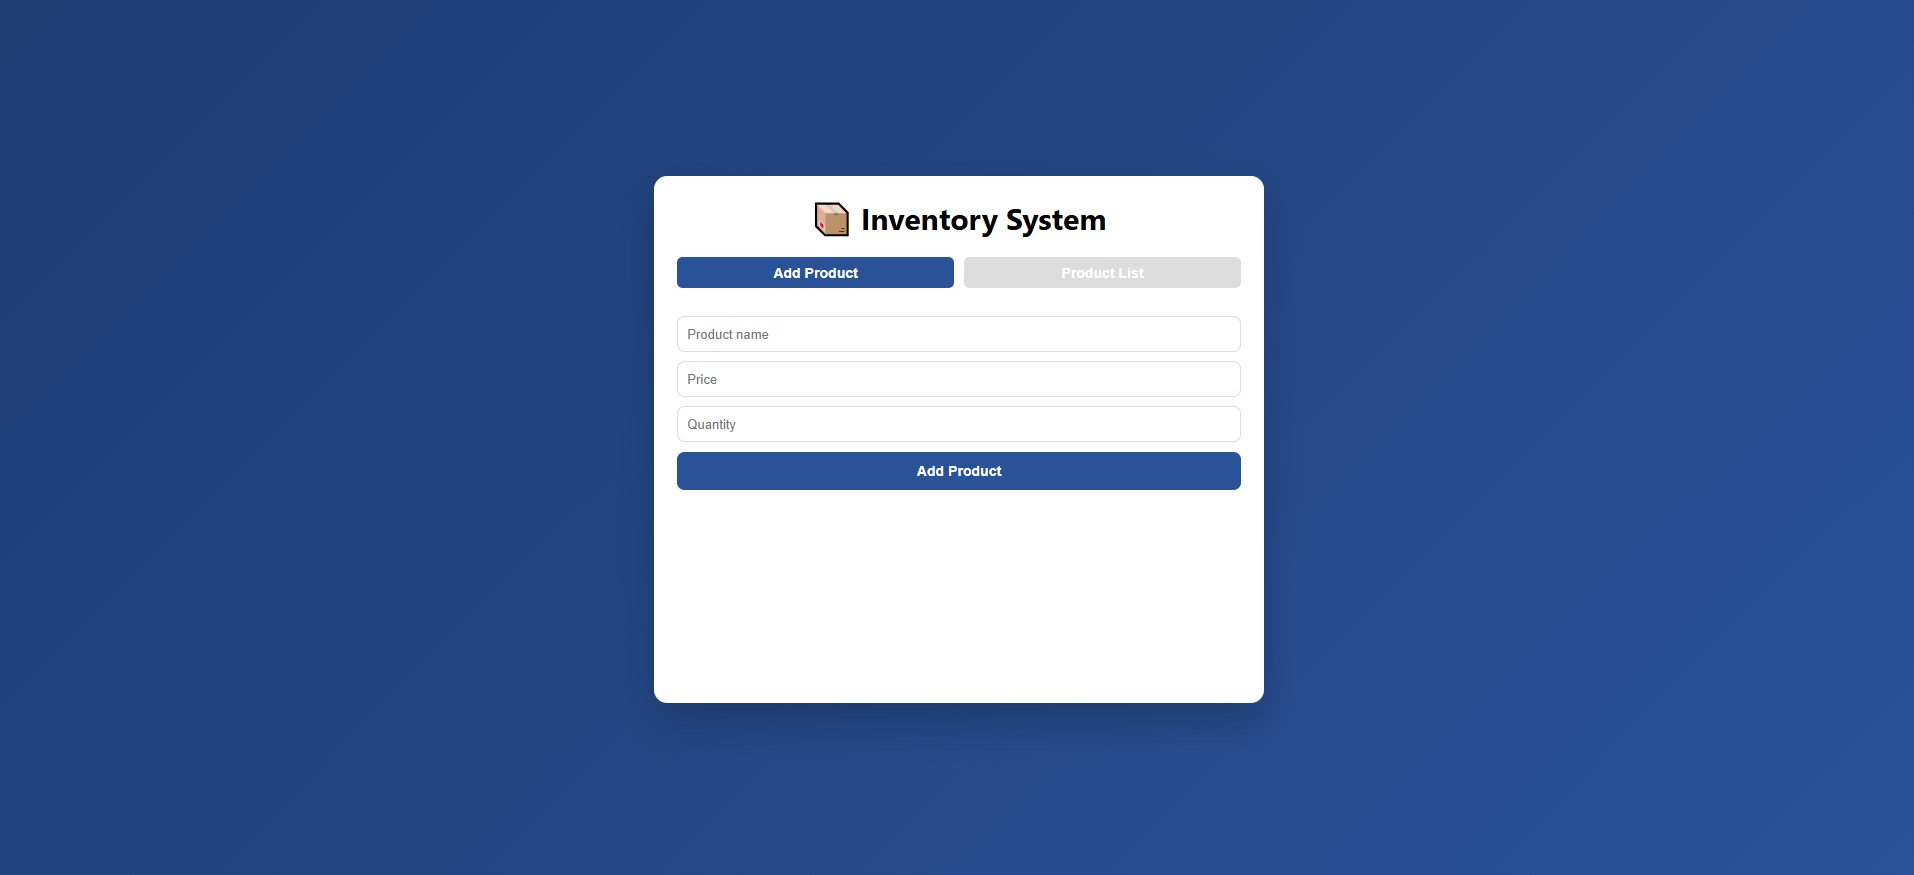
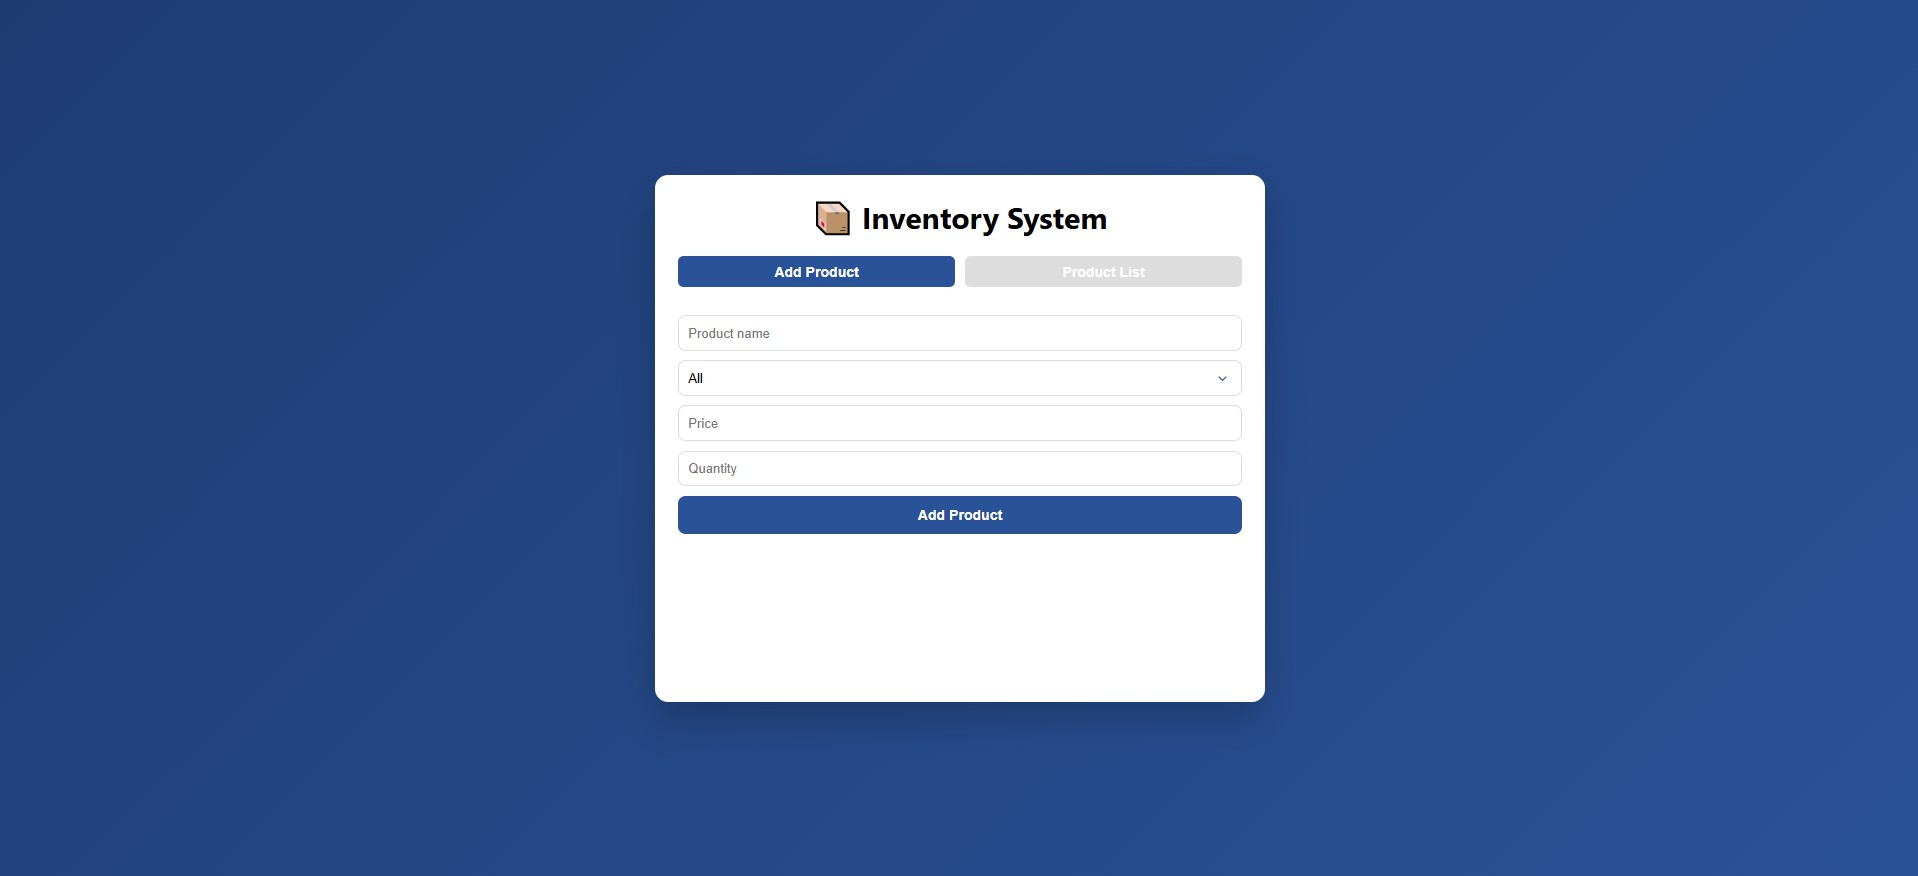
readme

diff --git a/README.md b/README.md
@@ -9,10 +9,14 @@ The app allows users to **add products**, **view them in a sortable & scrollable
 ## 🚀 Features
 
 ### ✅ Product Management
-- Add products with **name, price, and quantity**
-- Prevent invalid input (frontend & backend validation)
+- Add products with:
+  - **Name**
+  - **Category** (Food, Drink, Other)
+  - **Price**
+  - **Quantity**
+- Frontend & backend validation
+- Prevent duplicate products (same name + category)
 - Delete products
-- Prevent duplicate product names
 
 ---
 
@@ -20,8 +24,12 @@ The app allows users to **add products**, **view them in a sortable & scrollable
 - Products displayed in a **table**
 - Table has its **own scroll** (container stays fixed)
 - Total inventory value calculated automatically
-- Low-stock products can be highlighted (optional)
-- Search bar (filters products that start with typed letters)
+- Low-stock products highlighted
+- 🔍 Search bar:
+  - Filters products that **start with typed letters**
+- 📂 Category filter:
+  - Show products by selected category
+  - Can be combined with search
 
 ---
 
